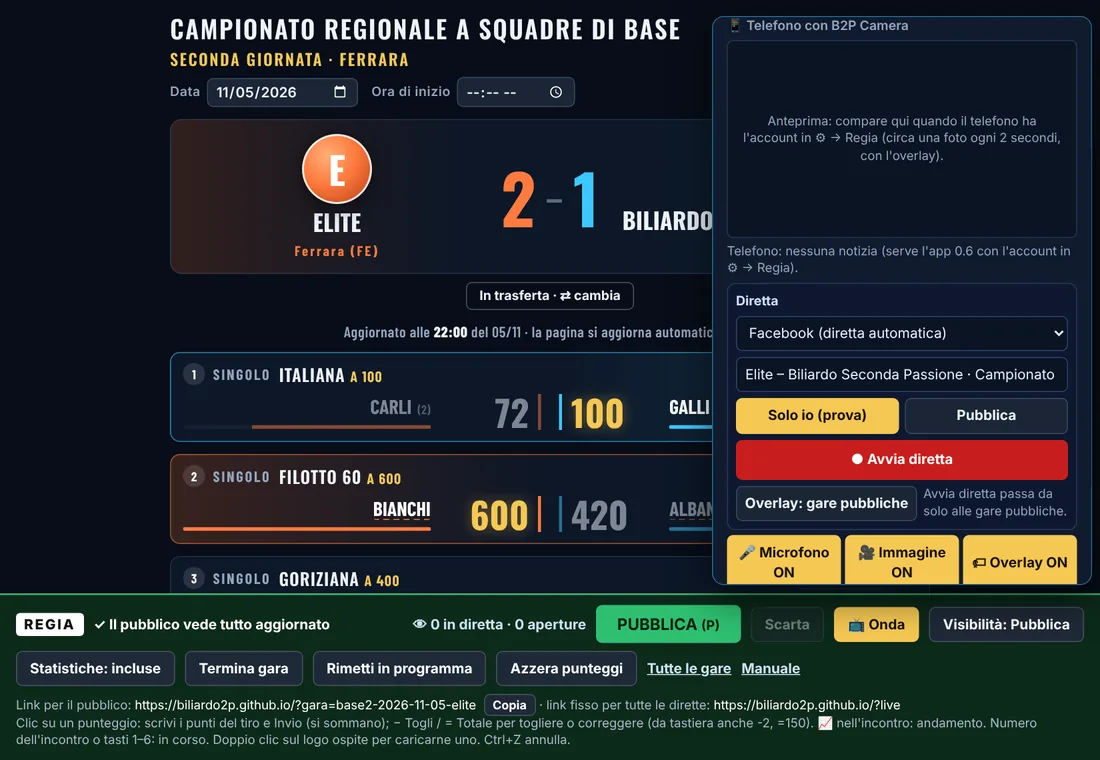
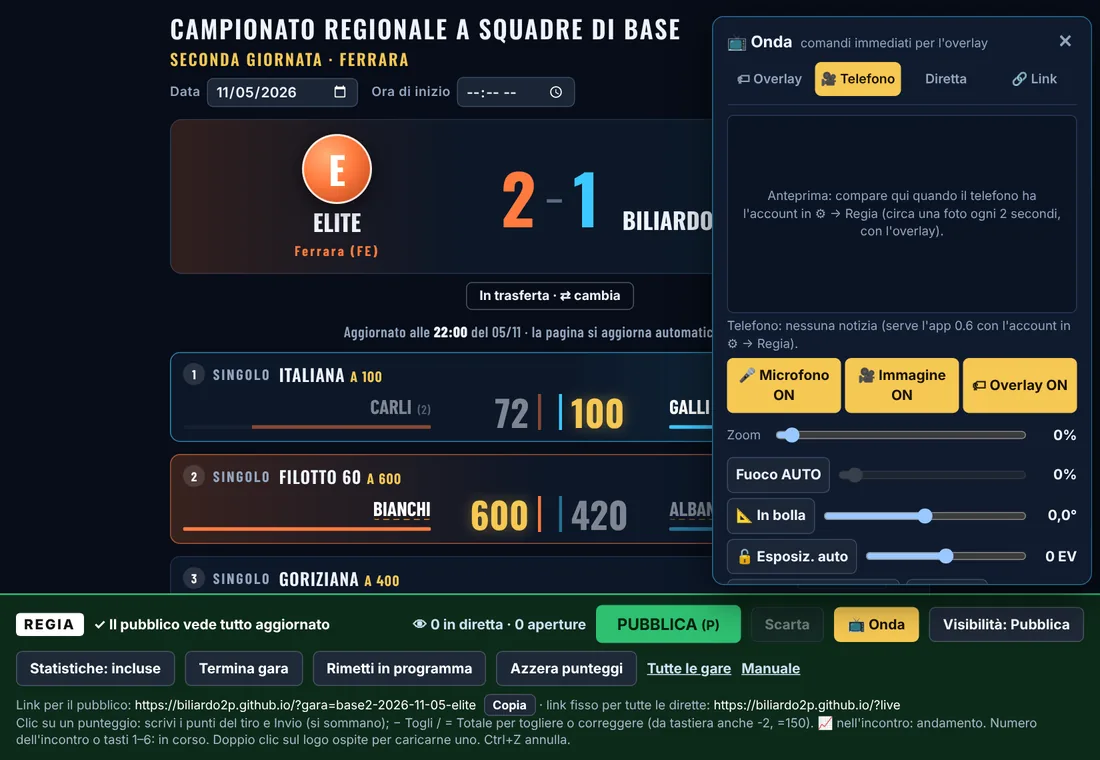
Pannello Onda diviso in schede (Overlay, Telefono, Diretta, Link); anteprima del telefono solo nelle schede Telefono e Diretta; qualità nella scheda Diretta; manuale; versione 2026112303
Claude-Session: https://claude.ai/code/session_013Bh35CD2cQ8S7o5rzFMs8H

diff --git a/manuale.html b/manuale.html
@@ -435,6 +435,14 @@ assente
 <figure class="sh"><img src="img/manuale/overlay-tabellone.webp" alt="Overlay del tabellone di un torneo" loading="lazy" width="1280" height="720"><figcaption>Torneo con batterie: pagina della batteria con l'incontro in diretta</figcaption></figure><figure class="sh"><img src="img/manuale/overlay-fascia.webp" alt="Fascia dell'incontro in primo piano" loading="lazy" width="1280" height="720"><figcaption>Fascia dell'incontro in primo piano</figcaption></figure>
 <h3>Comandi dalla regia: pannello 📺 Onda</h3>
 <p>Nella barra di regia, <span class="btn">📺 Onda</span> apre il pannello dei comandi dell'overlay. Questi comandi vanno in onda <b>subito</b>, senza PUBBLICA (risultati e nomi invece con PUBBLICA, come sempre). Il sito pubblico non ne è toccato.</p>
+<p>Il pannello è diviso in quattro schede, e riapre l'ultima usata:</p>
+<ul>
+  <li><b>🏷 Overlay</b>: cosa va in onda e come (comandi della tabella qui sotto).</li>
+  <li><b>🎥 Telefono</b>: anteprima e comandi del telefono con B2P Camera (microfono, immagine, zoom, fuoco, bolla, esposizione, cambio fotocamera).</li>
+  <li><b>Diretta</b>: anteprima, avvio e chiusura della diretta, titolo, pubblico, qualità. Quando il telefono è in diretta la scheda ha un pallino rosso.</li>
+  <li><b>🔗 Link</b>: gli indirizzi da incollare in OBS o in PRISM, con il pulsante Copia.</li>
+</ul>
+<p>I tasti funzionano da qualsiasi scheda. L'anteprima del telefono viene chiesta solo mentre è aperta la scheda Telefono o Diretta.</p>
 <table>
 <tr><th>Comando</th><th>Tasto</th><th>Effetto</th></tr>
 <tr><td>In onda: Tabellone / Fascia incontro / Nascosto</td><td><kbd>V</kbd> · <kbd>N</kbd></td><td>V passa da tabellone a fascia; N nasconde e rimostra l'overlay.</td></tr>
@@ -443,9 +451,7 @@ assente
 <tr><td>Bilia bianca</td><td><kbd>B</kbd></td><td>Solo per la fascia: a sinistra va chi ha la bilia bianca, a destra chi ha la gialla, a prescindere da casa e trasferta. Si sceglie per l'incontro in primo piano toccando il nome di chi ha la bianca; B scambia. Ogni incontro ricorda la sua scelta. Il tabellone completo resta con la casa a sinistra.</td></tr>
 <tr><td>Pagina del tabellone</td><td></td><td>Solo tornei con batterie: pagina fissa, automatica, oppure rotazione ogni 10–30 secondi.</td></tr>
 <tr><td>Sfondo del tabellone</td><td><kbd>[</kbd> <kbd>]</kbd></td><td>Più pieno o più trasparente.</td></tr>
-<tr><td>📷 Telefono con B2P Camera</td><td></td><td>Comandi per il telefono che trasmette con l'app B2P Camera: microfono, immagine, overlay, zoom, fuoco, cambio fotocamera (vedi più sotto).</td></tr>
 </table>
-<p>Il pannello mostra anche gli indirizzi da incollare in OBS, con il pulsante Copia.</p>
 <figure class="sh"><img src="img/manuale/regia-onda.webp" alt="Pannello Onda nella regia" loading="lazy" width="1100" height="760"><figcaption>Il pannello 📺 Onda aperto nella regia</figcaption></figure>
 <h3>Diretta improvvisata con telecamera: il mini-overlay</h3>
 <p>Per una diretta senza il PC della sala (un PC qualsiasi con webcam, oppure il telefono usato come telecamera) c'è una versione ridotta dell'overlay: solo la <b>fascia in basso</b>, con sfondo trasparente, che lascia vedere il tavolo. Indirizzo:</p>
@@ -477,17 +483,17 @@ assente
   <li><b>Qualità</b> in ⚙: 540p (1,2 Mbit/s, rete debole), 720p (2,5 Mbit/s) o 1080p (4,5 Mbit/s, testo dell'overlay più nitido). Cambiandola l'app si riavvia. La spunta “Abbassa la qualità da sola se la rete rallenta” (accesa di norma) riduce i Mbit/s quando la rete non ce la fa.</li>
   <li><b>YouTube e Facebook</b>: titolo, privacy e dove pubblicare (canale, profilo, Pagina) non si scelgono nell'app ma dove si prende la chiave: YouTube Studio → Trasmetti dal vivo; per Facebook <b>Live Producer</b> dal computer (Crea diretta → Software di streaming), dove si copiano server e chiave, si scelgono titolo e pubblico e, dopo aver premuto LIVE nell'app, si preme <b>Trasmetti/Vai in diretta</b> anche su Facebook.</li>
 </ul>
-<p><b>Telefono comandato dalla regia.</b> Nel pannello 📺 Onda c'è la sezione <b>📱 Telefono con B2P Camera</b>: anteprima, stato del telefono, microfono, immagine/nero, overlay, zoom, fuoco automatico o manuale, bolla e cambio fotocamera. Il telefono riceve il comando in 1–2 secondi, da qualunque rete (anche con i dati mobili); in alto a sinistra sullo schermo del telefono compare “📡 Regia collegata” e l'ultimo comando ricevuto.</p>
+<p><b>Telefono comandato dalla regia.</b> Nel pannello 📺 Onda ci sono le schede <b>🎥 Telefono</b> e <b>Diretta</b>: anteprima, stato del telefono, microfono, immagine/nero, overlay, zoom, fuoco automatico o manuale, bolla e cambio fotocamera. Il telefono riceve il comando in 1–2 secondi, da qualunque rete (anche con i dati mobili); in alto a sinistra sullo schermo del telefono compare “📡 Regia collegata” e l'ultimo comando ricevuto.</p>
 <ul>
   <li><b>Anteprima e stato</b>: con il pannello aperto il telefono manda una piccola foto ogni 2 secondi (con overlay e bolla, anche quando in diretta va il nero) e il suo stato: in diretta o no, Mbit/s, qualità, batteria. I pulsanti mostrano allora lo stato vero del telefono. Serve un utente di Firebase per il telefono (una volta sola: console di Firebase → Authentication → Users → Aggiungi utente, con un'email anche inventata, es. <code>telefono@biliardo2p.it</code>, e una password), da scrivere nell'app in ⚙ → Regia. Senza, i comandi funzionano lo stesso e il pannello mostra gli ultimi comandi inviati.</li>
-  <li>L'anteprima parte solo mentre il pannello 📺 Onda è aperto (circa 20–30 KB ogni 2 secondi) e si ferma da sola una quarantina di secondi dopo la chiusura.</li>
-  <li><b>Diretta dalla regia</b>: nel riquadro “Diretta” si sceglie dove trasmettere (Facebook automatica oppure il server impostato sul telefono, es. YouTube), si controlla il <b>titolo</b> (proposto dalla gara aperta, modificabile) e il pubblico (<b>Solo io</b> per le prove, <b>Pubblica</b>), poi <b>● Avvia diretta</b>. Per fermare: <b>■ Ferma diretta</b> e conferma con un secondo clic entro 4 secondi; con Facebook la diretta viene chiusa anche lì e resta come video. Basta che il telefono sia acceso con l'app aperta e il token di Facebook in ⚙. Avvia diretta imposta da solo le <b>gare di prova</b> dell'overlay (attive se la gara aperta è di prova); il pulsante “Overlay: gare di prova / pubbliche” le cambia a mano. Se qualcosa non va (token mancante o scaduto, server non impostato) il messaggio compare nel riquadro. Resta da fare a mano la condivisione nel gruppo, dal post.</li>
+  <li>L'anteprima parte solo mentre il pannello 📺 Onda è aperto sulla scheda Telefono o Diretta (circa 20–30 KB ogni 2 secondi) e si ferma da sola una quarantina di secondi dopo la chiusura.</li>
+  <li><b>Diretta dalla regia</b>: nella scheda “Diretta” si sceglie dove trasmettere (Facebook automatica oppure il server impostato sul telefono, es. YouTube), si controlla il <b>titolo</b> (proposto dalla gara aperta, modificabile) e il pubblico (<b>Solo io</b> per le prove, <b>Pubblica</b>), poi <b>● Avvia diretta</b>. Per fermare: <b>■ Ferma diretta</b> e conferma con un secondo clic entro 4 secondi; con Facebook la diretta viene chiusa anche lì e resta come video. Basta che il telefono sia acceso con l'app aperta e il token di Facebook in ⚙. Avvia diretta imposta da solo le <b>gare di prova</b> dell'overlay (attive se la gara aperta è di prova); il pulsante “Overlay: gare di prova / pubbliche” le cambia a mano. Se qualcosa non va (token mancante o scaduto, server non impostato) il messaggio compare nel riquadro. Resta da fare a mano la condivisione nel gruppo, dal post.</li>
   <li><b>Esposizione</b>: se la luminosità cambia da sola (qualcuno passa davanti, luci che variano), “🔓 Esposiz. auto” diventa “🔒 Esposiz. bloccata” e la tiene com'è in quel momento; il cursore accanto rende l'immagine più scura o più chiara (da −2 a +2 EV). Le stesse cose sul telefono: lucchetto e cursore in basso, pressione lunga sul lucchetto = correzione a 0. Il telefono usa sempre l'anti-sfarfallio a 50 Hz per le luci al neon e LED.</li>
-  <li><b>Qualità</b> (540p, 720p, 1080p) anche dalla regia: il telefono si riavvia in 2–3 secondi con la nuova risoluzione. Solo fuori diretta: in diretta i pulsanti sono spenti.</li>
+  <li><b>Qualità</b> (540p, 720p, 1080p) anche dalla regia, nella scheda Diretta: il telefono si riavvia in 2–3 secondi con la nuova risoluzione. Solo fuori diretta: in diretta i pulsanti sono spenti.</li>
   <li>All'accensione il telefono non ripete i comandi vecchi: parte con le sue impostazioni e segue solo i comandi nuovi.</li>
   <li>I comandi si possono spegnere sul telefono: ⚙ → “Accetta comandi dalla regia”.</li>
 </ul>
-<figure class="sh"><img src="img/manuale/regia-onda-camera.webp" alt="Sezione Telefono con B2P Camera nel pannello Onda" loading="lazy" width="1100" height="760"><figcaption>Pannello 📺 Onda: i comandi per il telefono con B2P Camera</figcaption></figure>
+<figure class="sh"><img src="img/manuale/regia-onda-camera.webp" alt="Scheda Telefono del pannello Onda" loading="lazy" width="1100" height="760"><figcaption>Pannello 📺 Onda, scheda Telefono: i comandi per il telefono con B2P Camera</figcaption></figure>
 <p><b>Preparare un PC personale (una volta sola):</b></p>
 <ol>
   <li>Installa <b>OBS Studio</b> (obsproject.com). Nella configurazione guidata scegli “Ottimizza per lo streaming”, servizio <b>YouTube - RTMPS</b> e <b>Usa chiave di streaming</b>.</li>
@@ -572,7 +578,7 @@ assente
   <dt>Pannello Onda: “Comando non inviato: Firebase lo rifiuta. Aggiungi il nodo camera…”.</dt>
   <dd>Le regole del database pubblicate non hanno ancora il nodo <code>camera</code>: incolla in Firebase il file <code>regole_database.json</code> aggiornato e premi Pubblica (sezione Amministrazione). Se invece il telefono mostra “📡 Regia: non collegata”, controlla che abbia la rete.</dd>
   <dt>Nel pannello Onda non compare l'anteprima del telefono.</dt>
-  <dd>Sul telefono, in alto a sinistra, la riga sotto lo stato dice cosa non va: “accesso non riuscito” = email o password sbagliate in ⚙ → Regia; “la regia rifiuta i dati” = regole del database senza il nodo <code>telefono</code>; “rete assente” = il telefono non ha internet. Serve anche la regia con l'accesso fatto (l'anteprima si legge solo da utenti autenticati).</dd>
+  <dd>L'anteprima c'è solo nelle schede Telefono e Diretta. Sul telefono, in alto a sinistra, la riga sotto lo stato dice cosa non va: “accesso non riuscito” = email o password sbagliate in ⚙ → Regia; “la regia rifiuta i dati” = regole del database senza il nodo <code>telefono</code>; “rete assente” = il telefono non ha internet. Serve anche la regia con l'accesso fatto (l'anteprima si legge solo da utenti autenticati).</dd>
   <dt>Il pubblico non vede un punteggio che ho inserito.</dt>
   <dd>Controlla la barra di regia: se dice “Modifiche NON ancora pubblicate”, premi PUBBLICA.</dd>
   <dt>Un nome è sottolineato in arancione.</dt>
@@ -588,6 +594,7 @@ assente
 <h2><span class="n">15</span>Novità</h2>
 <h3>23 novembre 2026</h3>
 <ul>
+  <li>Pannello 📺 Onda diviso in <b>schede</b>: Overlay, Telefono, Diretta (con il pallino rosso quando si è in diretta), Link.</li>
   <li>Pannello 📺 Onda: <b>fascia senza punteggi</b> (tasto S), solo i nomi dei giocatori con squadra e specialità, per le dirette in cui i punti non vengono aggiornati.</li>
 </ul>
 <h3>15 novembre 2026</h3>

diff --git a/js/overlay.js b/js/overlay.js
@@ -311,25 +311,39 @@ function ondaPaint(){
   const lab = (m,i) => `${i+1} · ${isTorneo() ? (m.turno||"") : m.kind} · ${(namesOf(m, "h") || "—")} – ${(namesOf(m, "a") || "—")}${isAct(i) ? " (in corso)" : ""}`;
   const pages = isTab() ? buildTab(S).pages : [];
   p.hidden = false;
-  p.innerHTML = `<div class="oh"><b>📺 Onda</b><span>comandi immediati per l'overlay di OBS</span><button class="ox" data-o="x" aria-label="Chiudi">✕</button></div>
-    <div class="og"><span>In onda</span><div class="seg">${[["tab","Tabellone"],["fascia","Fascia incontro"],["off","Nascosto"]].map(([k,t])=>`<button data-o="v:${k}" class="${o.v===k ? "on" : ""}">${t}</button>`).join("")}</div></div>
+  const T = ondaTabOk(), st = telFresco() && TEL && TEL.stato, live = !!(st && st.live);
+  const tabs = [["ovl","🏷 Overlay"],["tel","🎥 Telefono"],["dir", live ? `<i class="rec">●</i> Diretta` : "Diretta"],["lnk","🔗 Link"]];
+  const body = {
+    ovl: `<div class="og"><span>In onda</span><div class="seg">${[["tab","Tabellone"],["fascia","Fascia incontro"],["off","Nascosto"]].map(([k,t])=>`<button data-o="v:${k}" class="${o.v===k ? "on" : ""}">${t}</button>`).join("")}</div></div>
     <div class="og"><span>Incontro in primo piano</span><select data-o="primo"><option value="-1">Automatico (l'ultimo messo in corso)</option>${ondaMatches().map(x=>`<option value="${x.i}"${o.primo===x.i ? " selected" : ""}>${esc(lab(x.m, x.i))}</option>`).join("")}</select></div>
-    ${pages.length>1 ? `<div class="og"><span>Pagina del tabellone</span><div class="two"><select data-o="pag"><option value="">Automatica</option>${pages.map(pg=>`<option value="${pg.key}"${o.pag===pg.key ? " selected" : ""}>${esc(pg.title)}</option>`).join("")}</select>
-      <select data-o="ciclo" title="Rotazione automatica delle pagine (con pagina Automatica)">${[[0,"Ferma"],[10,"Ruota ogni 10 s"],[15,"Ruota ogni 15 s"],[20,"Ruota ogni 20 s"],[30,"Ruota ogni 30 s"]].map(([v,t])=>`<option value="${v}"${(+o.ciclo||0)===v ? " selected" : ""}>${t}</option>`).join("")}</select></div></div>` : ""}
     <div class="og"><span>Punteggi nella fascia</span><div class="seg s2">${[[0,"Mostrati"],[1,"Solo nomi"]].map(([k,t])=>`<button data-o="np:${k}" class="${!!o.np===!!k ? "on" : ""}">${t}</button>`).join("")}</div>
       ${o.np ? `<small>Fascia senza punteggi, bilie e set: per le dirette in cui nessuno aggiorna i punti. Il tabellone (V) li mostra comunque. Tasto <kbd>S</kbd>.</small>` : ""}</div>
     ${o.np ? "" : ondaBiancaHTML()}
+    ${pages.length>1 ? `<div class="og"><span>Pagina del tabellone</span><div class="two"><select data-o="pag"><option value="">Automatica</option>${pages.map(pg=>`<option value="${pg.key}"${o.pag===pg.key ? " selected" : ""}>${esc(pg.title)}</option>`).join("")}</select>
+      <select data-o="ciclo" title="Rotazione automatica delle pagine (con pagina Automatica)">${[[0,"Ferma"],[10,"Ruota ogni 10 s"],[15,"Ruota ogni 15 s"],[20,"Ruota ogni 20 s"],[30,"Ruota ogni 30 s"]].map(([v,t])=>`<option value="${v}"${(+o.ciclo||0)===v ? " selected" : ""}>${t}</option>`).join("")}</select></div></div>` : ""}
     <div class="og"><span>Sfondo del tabellone</span><div class="two"><input type="range" min="0" max="1" step="0.05" value="${o.bga ?? .55}" data-o="bga"><b>${Math.round((o.bga ?? .55)*100)}%</b></div></div>
-    ${camHTML()}
-    <div class="og lk"><span>Sorgente Browser in OBS (1280×720)</span>
+    <p class="hint">Tasti (valgono da qualsiasi scheda): <kbd>N</kbd> nascondi/mostra · <kbd>V</kbd> tabellone/fascia · <kbd>F</kbd> incontro in primo piano · <kbd>B</kbd> bilia bianca · <kbd>S</kbd> punteggi sì/no · <kbd>[</kbd> <kbd>]</kbd> sfondo. Risultati e nomi vanno in onda con PUBBLICA; questi comandi subito.</p>`,
+    tel: camHTML(),
+    dir: `<div class="og cam">${telPrevHTML()}${camLiveHTML()}${camQualHTML()}${camErr ? `<p class="err">${esc(camErr)}</p>` : ""}</div>`,
+    lnk: `<div class="og lk"><span>Sorgente Browser in OBS (1280×720)</span>
       <div class="two"><code>${esc(pub)}?overlay&amp;live</code><button data-o="copy:live">Copia</button></div>
       <div class="two"><code>${esc(pub)}?overlay&amp;gara=${esc(GARA)}</code><button data-o="copy:gara">Copia</button></div>
+      <span>Dirette con telecamera (PRISM, B2P Camera)</span>
       <div class="two"><code>${esc(pub)}?overlay&amp;mini&amp;live</code><button data-o="copy:mini">Copia</button></div>
       <div class="two"><code>${esc(pub)}?overlay&amp;riepilogo&amp;live</code><button data-o="copy:riep">Copia</button></div>
-      <small>Gli ultimi due sono per le dirette con telecamera (due widget di PRISM): la fascia con l'incontro in primo piano (tasto F per cambiarlo), e il riepilogo a tutto schermo che compare al posto della fascia quando è in onda il Tabellone (tasto V).</small></div>
-    ${ondaErr ? `<p class="err">${esc(ondaErr)}</p>` : ""}
-    <p class="hint">Tasti: <kbd>N</kbd> nascondi/mostra · <kbd>V</kbd> tabellone/fascia · <kbd>F</kbd> incontro in primo piano · <kbd>B</kbd> bilia bianca · <kbd>S</kbd> punteggi sì/no · <kbd>[</kbd> <kbd>]</kbd> sfondo. Risultati e nomi vanno in onda con PUBBLICA; questi comandi subito.</p>`;
+      <small>La fascia con l'incontro in primo piano (tasto F per cambiarlo) e il riepilogo a tutto schermo che compare al posto della fascia quando è in onda il Tabellone (tasto V).</small></div>`
+  };
+  p.innerHTML = `<div class="oh"><b>📺 Onda</b><span>comandi immediati per l'overlay</span><button class="ox" data-o="x" aria-label="Chiudi">✕</button></div>
+    <div class="otabs" role="tablist">${tabs.map(([k,t])=>`<button role="tab" aria-selected="${k===T}" data-o="tab:${k}" class="${k===T ? "on" : ""}">${t}</button>`).join("")}</div>
+    ${body[T]}
+    ${ondaErr ? `<p class="err">${esc(ondaErr)}</p>` : ""}`;
 }
+/* schede del pannello Onda (dal 23/11/2026): Overlay, Telefono, Diretta, Link; l'ultima scelta resta nel browser */
+let ondaTab = (()=>{ try{ return localStorage.getItem("onda2p.tab") || "ovl"; }catch(e){ return "ovl"; } })();
+const ondaTabOk = () => ["ovl","tel","dir","lnk"].includes(ondaTab) ? ondaTab : "ovl";
+const ondaFoto = () => ["tel","dir"].includes(ondaTabOk());   /* l'anteprima del telefono serve solo in queste due schede */
+function ondaSetTab(t){ ondaTab = t; try{ localStorage.setItem("onda2p.tab", t); }catch(e){} ondaPaint();
+  if(ondaFoto()){ telGuarda = 0; telTick(); } }
 /* bilia bianca dell'incontro in primo piano nella fascia (a sinistra) */
 function ondaBiancaHTML(){ const i = ovPrimo(), m = S.matches[i]; if(!m) return "";
   const [x] = ovFSides(m, i), nm = sd => esc(m.kind==="Staffetta" ? teamShort(sd) : namesOf(m, sd) || (sd==="h" ? "Casa" : "Ospite"));
@@ -351,6 +365,7 @@ function ondaToggle(){
       else if(k==="cam") camClick(v);
       else if(k==="bia") ondaBianca(v);
       else if(k==="np") ondaNp(v==="1");
+      else if(k==="tab") ondaSetTab(v);
       else if(k==="copy"){ const t = (PUBLIC_URL || pageURL("")) + (v==="live" ? "?overlay&live" : v==="mini" ? "?overlay&mini&live" : v==="riep" ? "?overlay&riepilogo&live" : "?overlay&gara=" + GARA);
         try{ navigator.clipboard.writeText(t).then(()=>setFlash("Indirizzo per OBS copiato"), ()=>setFlash(t)); }catch(err){ setFlash(t); } } });
     p.addEventListener("change", e=>{ const k = e.target.dataset.o; if(!k) return;
@@ -409,7 +424,7 @@ function telStop(){ clearInterval(telTimer); telTimer = 0; }
 async function telTick(){
   if(!ondaOpen){ telStop(); return; }
   const now = Date.now();
-  if(now - telGuarda > 15000){ telGuarda = now; try{ await dbWrite({"camera/guarda": now}); }catch(e){} }
+  if(ondaFoto() && now - telGuarda > 15000){ telGuarda = now; try{ await dbWrite({"camera/guarda": now}); }catch(e){} }
   let j = null;
   try{ const r = await fetch(FIREBASE.databaseURL + "/telefono.json?auth=" + encodeURIComponent(await idToken())); if(r.ok) j = await r.json(); }catch(e){ return; }
   TEL = j; const t = j && j.stato && +j.stato.t || 0; if(t && t!==telT){ telT = t; telVisto = Date.now(); }
@@ -469,18 +484,18 @@ function camQualHTML(){
   return `<div class="two"><small>Qualità</small><div class="seg">${b("540")}${b("720")}${b("1080")}</div></div>
       ${live ? `<small>La qualità si cambia fuori diretta: l'app si riavvia (2–3 s).</small>` : ""}`;
 }
+/* anteprima e stato del telefono (schede Telefono e Diretta) */
+function telPrevHTML(){ const foto = TEL && TEL.foto;
+  return `<div class="foto">${foto ? `<img id="camfoto" src="${foto}" alt="Anteprima del telefono">` : `<img id="camfoto" alt="" hidden><p>Anteprima: compare qui quando il telefono ha l'account in ⚙ → Regia (circa una foto ogni 2 secondi, con l'overlay).</p>`}</div>
+      <small id="camst">${telStatoHTML()}</small>`; }
 function camHTML(){ const c = camV(), sw = (k, on, t1, t0) => `<button data-o="cam:${k}" class="${on ? "on" : ""}">${on ? t1 : t0}</button>`;
-  const rot = +c.rot || 0, foto = TEL && TEL.foto;
-  return `<div class="og cam"><span>📱 Telefono con B2P Camera</span>
-      <div class="foto">${foto ? `<img id="camfoto" src="${foto}" alt="Anteprima del telefono">` : `<img id="camfoto" alt="" hidden><p>Anteprima: compare qui quando il telefono ha l'account in ⚙ → Regia (circa una foto ogni 2 secondi, con l'overlay).</p>`}</div>
-      <small id="camst">${telStatoHTML()}</small>
-      ${camLiveHTML()}
+  const rot = +c.rot || 0;
+  return `<div class="og cam">${telPrevHTML()}
       <div class="seg">${sw("mic", c.mic, "🎤 Microfono ON", "🎤 Microfono OFF")}${sw("cam", c.cam, "🎥 Immagine ON", "🎥 Nero")}${sw("ov", c.ov, "🏷 Overlay ON", "🏷 Overlay OFF")}</div>
       <div class="two"><small>Zoom</small><input type="range" min="0" max="100" step="1" value="${+c.zoom || 0}" data-o="camz"><b>${+c.zoom || 0}%</b></div>
       <div class="two"><button data-o="cam:af" class="${c.af ? "" : "on"}">${c.af ? "Fuoco AUTO" : "Fuoco MAN"}</button><input type="range" min="0" max="100" step="1" value="${+c.fuoco || 0}" data-o="camf"${c.af ? " disabled" : ""}><b>${+c.fuoco || 0}%</b></div>
       <div class="two"><button data-o="cam:bolla" title="Il telefono legge il suo sensore e si raddrizza da solo">📐 In bolla</button><input type="range" min="-10" max="10" step="0.5" value="${rot}" data-o="camr" title="Raddrizza a mano: gradi"><b>${camFmt("rot", rot)}</b></div>
       <div class="two"><button data-o="cam:ael" class="${c.ael ? "on" : ""}" title="Blocca la luminosità com'è adesso: non cambia più quando qualcuno passa davanti">${c.ael ? "🔒 Esposiz. bloccata" : "🔓 Esposiz. auto"}</button><input type="range" min="-2" max="2" step="0.1" value="${+c.ev || 0}" data-o="came" title="Più scuro / più chiaro"><b>${camFmt("ev", +c.ev || 0)}</b></div>
-      ${camQualHTML()}
       <div class="two"><button data-o="cam:gira">🔄 Cambia fotocamera</button><button data-o="cam:dritto" title="Toglie la correzione della bolla">Bolla a 0°</button></div>
       ${camErr ? `<p class="err">${esc(camErr)}</p>` : ""}
       <small>Fuoco: 0 = lontano, 100 = vicino. I comandi arrivano in 1–2 s. ${telFresco() ? "I pulsanti mostrano lo stato del telefono." : "Senza notizie dal telefono i pulsanti mostrano gli ultimi comandi inviati."}</small></div>`;

diff --git a/index.html b/index.html
@@ -17,12 +17,12 @@
 <meta name="apple-mobile-web-app-title" content="Live 2P">
 <link rel="preconnect" href="https://fonts.gstatic.com" crossorigin>
 <link rel="stylesheet" href="https://fonts.googleapis.com/css2?family=Barlow+Condensed:wght@500;600;700;800&family=Oswald:wght@600;700&display=swap">
-<link rel="stylesheet" href="css/base.css?v=2026112302">
-<link rel="stylesheet" href="css/elenco-regia.css?v=2026112302">
-<link rel="stylesheet" href="css/torneo.css?v=2026112302">
-<link rel="stylesheet" href="css/set-andamento.css?v=2026112302">
-<link rel="stylesheet" href="css/anagrafica.css?v=2026112302">
-<link rel="stylesheet" href="css/overlay.css?v=2026112302">
+<link rel="stylesheet" href="css/base.css?v=2026112303">
+<link rel="stylesheet" href="css/elenco-regia.css?v=2026112303">
+<link rel="stylesheet" href="css/torneo.css?v=2026112303">
+<link rel="stylesheet" href="css/set-andamento.css?v=2026112303">
+<link rel="stylesheet" href="css/anagrafica.css?v=2026112303">
+<link rel="stylesheet" href="css/overlay.css?v=2026112303">
 </head>
 <body>
 <div id="app"></div>
@@ -69,22 +69,22 @@
 <div id="sug" hidden role="listbox" aria-label="Giocatori"></div>
 <script src="https://www.gstatic.com/firebasejs/10.12.2/firebase-app-compat.js"></script>
 <script src="https://www.gstatic.com/firebasejs/10.12.2/firebase-database-compat.js"></script>
-<script src="js/config.js?v=2026112302"></script>
-<script src="js/formule.js?v=2026112302"></script>
-<script src="js/util.js?v=2026112302"></script>
-<script src="js/gara.js?v=2026112302"></script>
-<script src="js/dati.js?v=2026112302"></script>
-<script src="js/vista-gara.js?v=2026112302"></script>
-<script src="js/vista-elenco.js?v=2026112302"></script>
-<script src="js/render.js?v=2026112302"></script>
-<script src="js/interazioni.js?v=2026112302"></script>
-<script src="js/anagrafica.js?v=2026112302"></script>
-<script src="js/nomi.js?v=2026112302"></script>
-<script src="js/controllo-nomi.js?v=2026112302"></script>
-<script src="js/giocatori.js?v=2026112302"></script>
-<script src="js/overlay.js?v=2026112302"></script>
-<script src="js/regia-barra.js?v=2026112302"></script>
-<script src="js/avvio.js?v=2026112302"></script>
+<script src="js/config.js?v=2026112303"></script>
+<script src="js/formule.js?v=2026112303"></script>
+<script src="js/util.js?v=2026112303"></script>
+<script src="js/gara.js?v=2026112303"></script>
+<script src="js/dati.js?v=2026112303"></script>
+<script src="js/vista-gara.js?v=2026112303"></script>
+<script src="js/vista-elenco.js?v=2026112303"></script>
+<script src="js/render.js?v=2026112303"></script>
+<script src="js/interazioni.js?v=2026112303"></script>
+<script src="js/anagrafica.js?v=2026112303"></script>
+<script src="js/nomi.js?v=2026112303"></script>
+<script src="js/controllo-nomi.js?v=2026112303"></script>
+<script src="js/giocatori.js?v=2026112303"></script>
+<script src="js/overlay.js?v=2026112303"></script>
+<script src="js/regia-barra.js?v=2026112303"></script>
+<script src="js/avvio.js?v=2026112303"></script>
 
 </body>
 </html>

diff --git a/css/overlay.css b/css/overlay.css
@@ -267,6 +267,15 @@ body.ovm > *:not(#app){display:none!important}
 #ondap .oh{display:flex;align-items:baseline;gap:8px}
 #ondap .oh b{font-size:16px} #ondap .oh span{color:#93a5bf;font-size:12.5px;flex:1}
 #ondap .ox{background:transparent;border:0;color:#93a5bf;font-size:18px;cursor:pointer;padding:0 4px}
+/* schede del pannello (23/11/2026) */
+#ondap{padding-top:0}
+#ondap .oh{position:sticky;top:0;z-index:2;background:#101b2e;padding-top:12px}
+#ondap .otabs{position:sticky;top:40px;z-index:2;background:#101b2e;display:grid;grid-template-columns:repeat(4,1fr);gap:3px;padding:2px 0 8px;border-bottom:1px solid #26385a;margin-top:-4px}
+#ondap .otabs button{padding:7px 2px;font-size:13px;font-weight:600;background:transparent;border:1px solid transparent;border-radius:6px;color:#93a5bf;white-space:nowrap}
+#ondap .otabs button:hover{color:#eef3fb;background:#1b2536}
+#ondap .otabs button.on{color:#1a1205;background:#f6c853;border-color:#f6c853}
+#ondap .otabs .rec{color:#ff5a5a;font-style:normal}
+#ondap .otabs button.on .rec{color:#b40000}
 #ondap .og{display:flex;flex-direction:column;gap:5px}
 #ondap .og>span{color:#93a5bf;font-weight:600;font-size:13px}
 #ondap .seg{display:grid;grid-template-columns:repeat(3,1fr);gap:4px}
